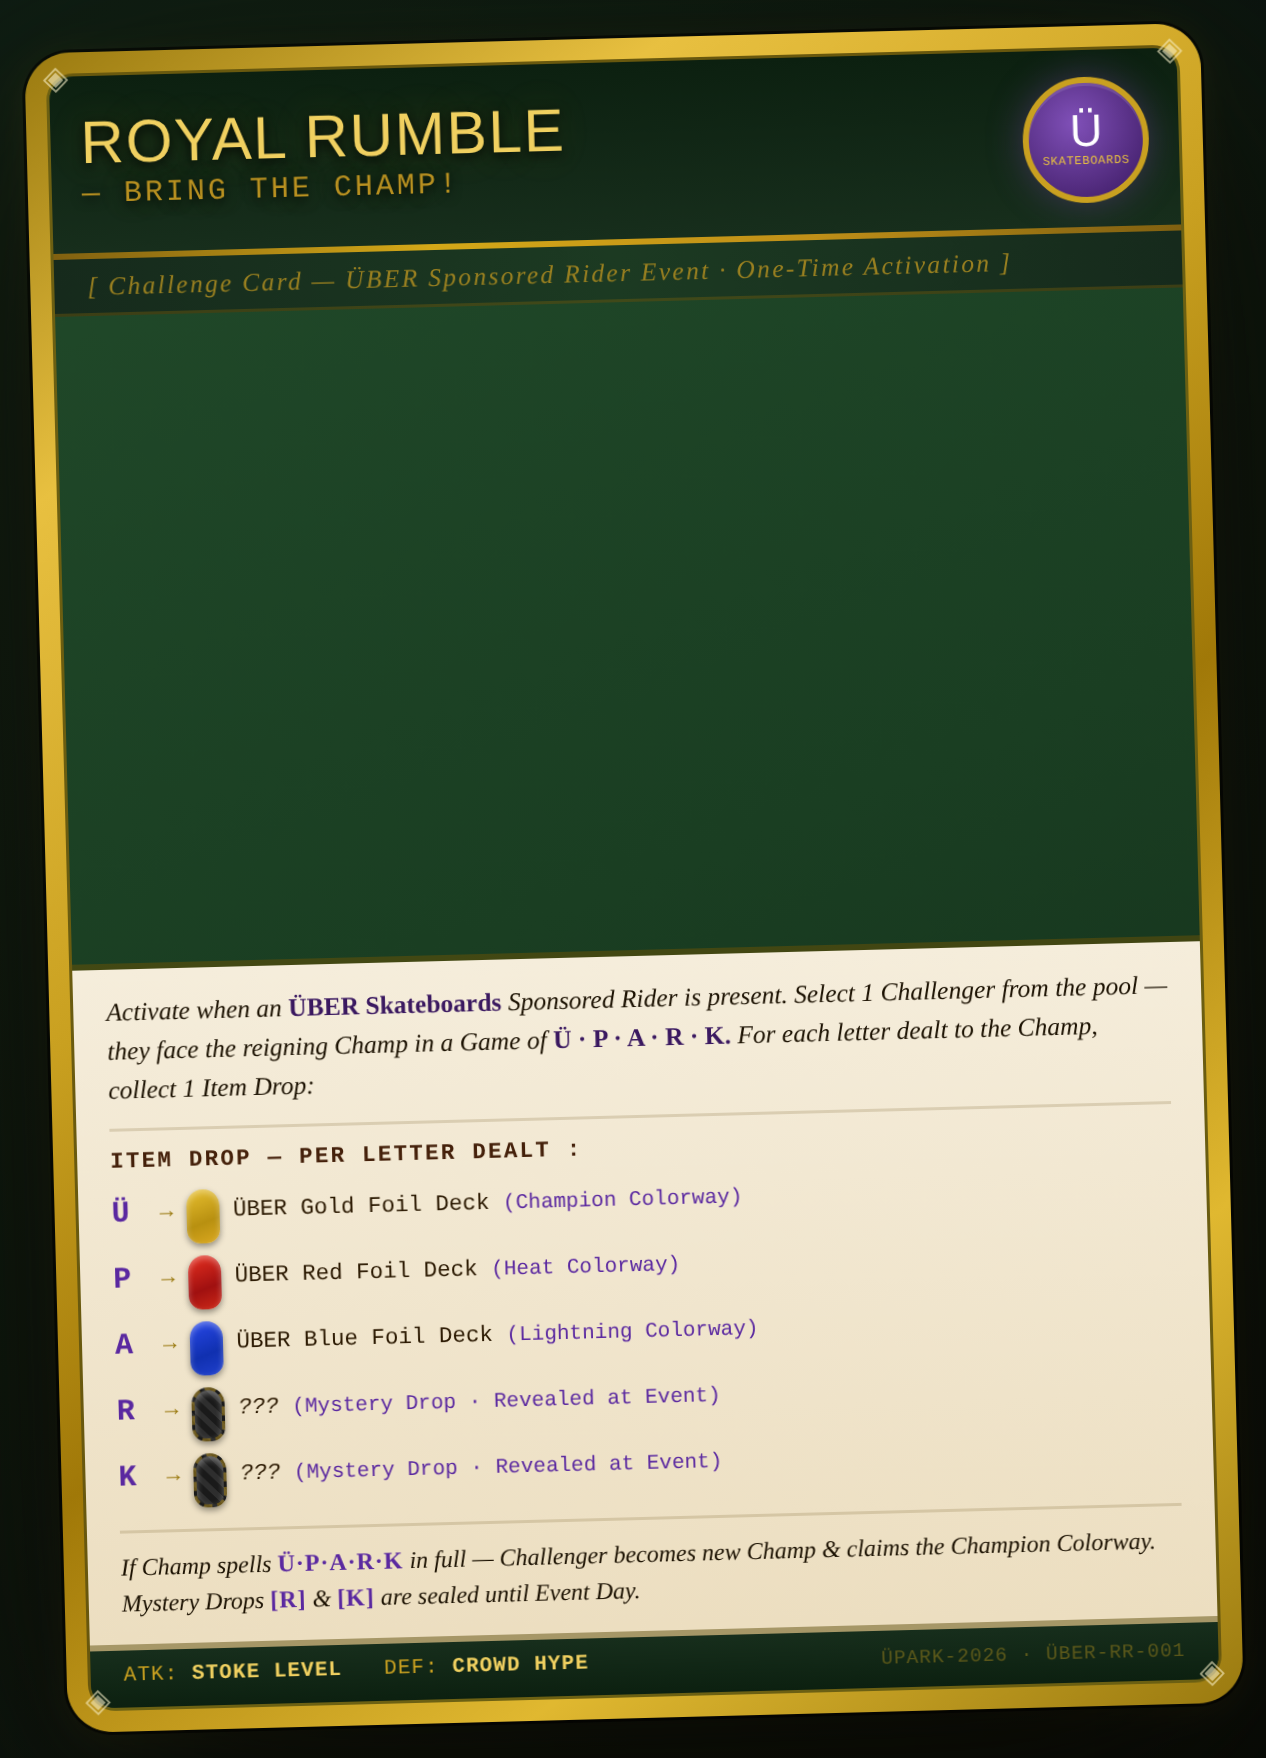
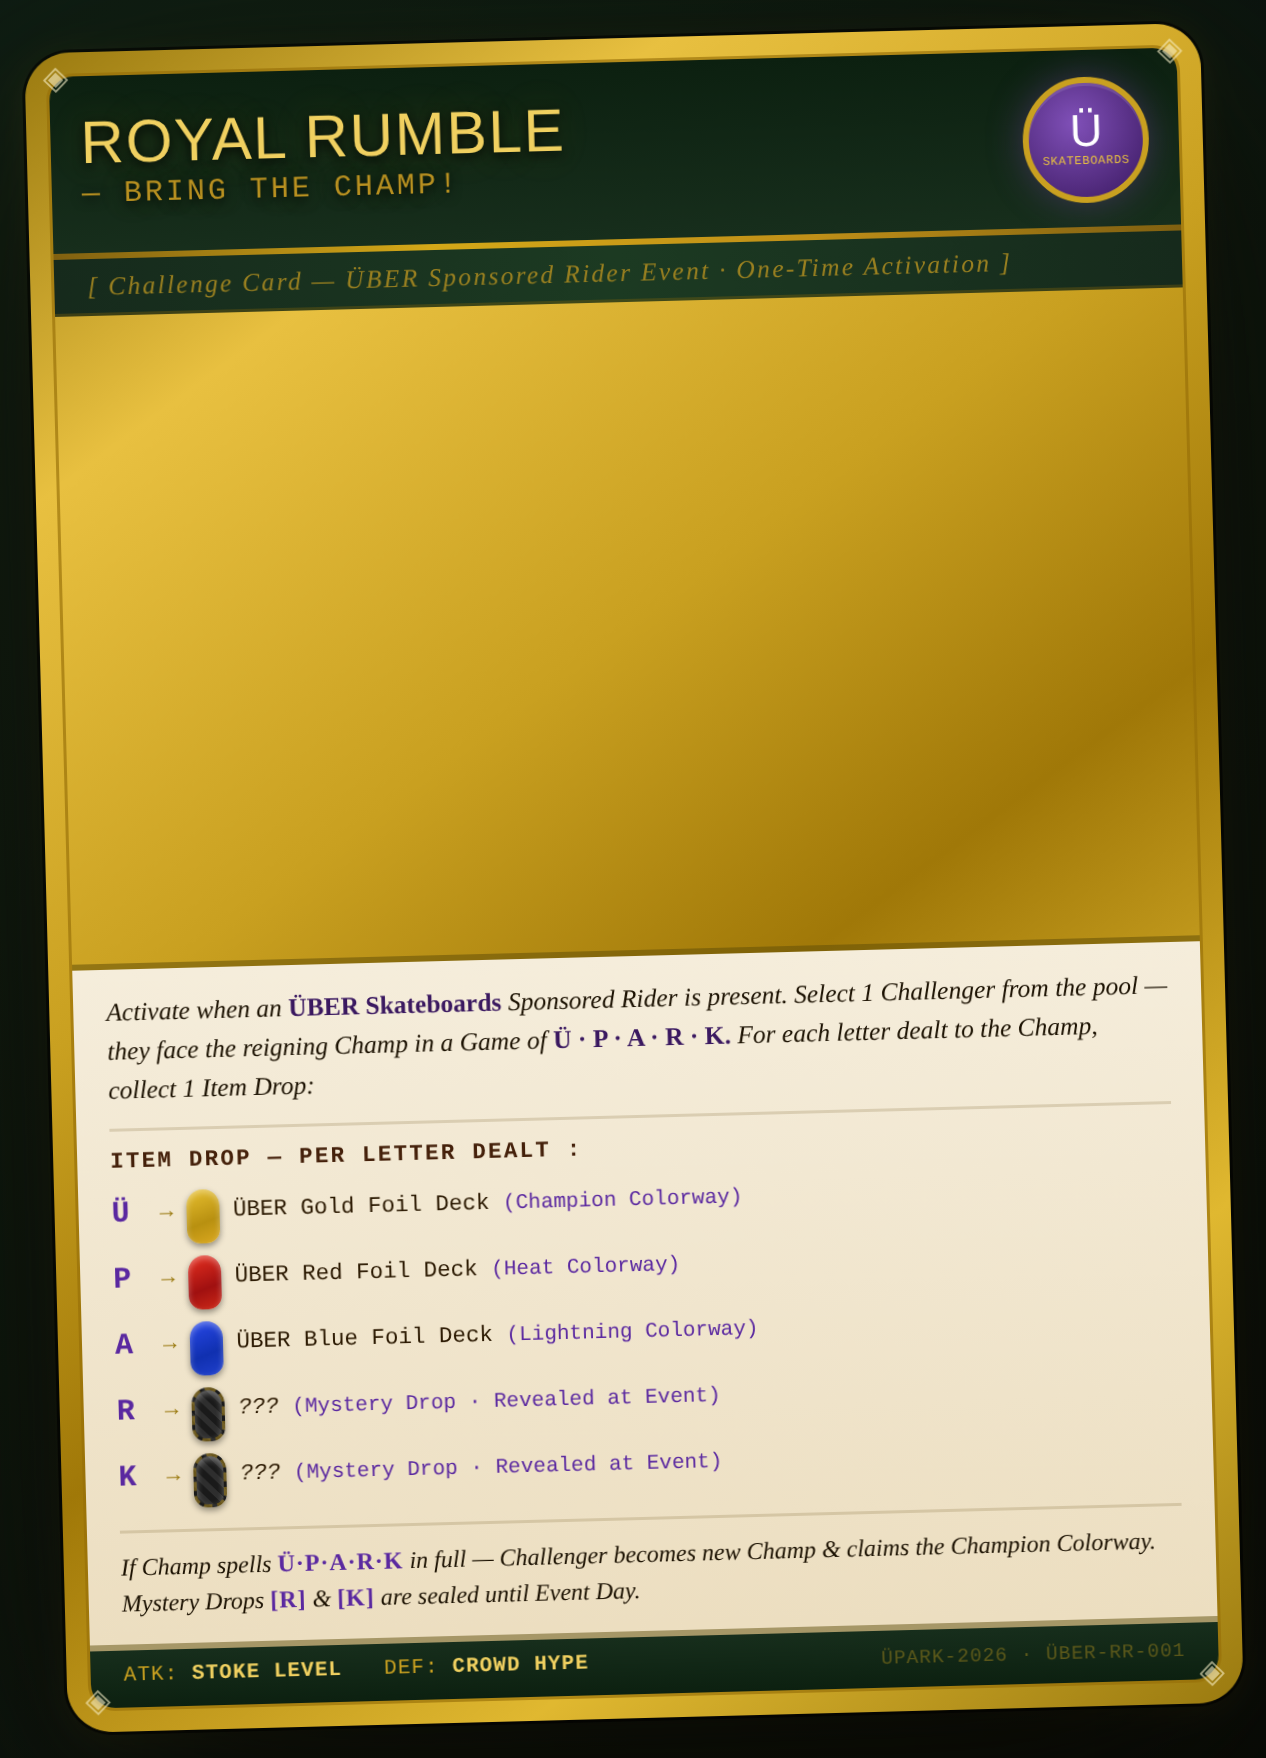
Remove card-level green background so art zone spacer is truly transparent
Each section (title-bar, type-line, text-box, footer) has its own
explicit background — removing card-level gradient punches a clean
alpha hole through the art zone.

diff --git a/cards/royal-rumble.html b/cards/royal-rumble.html
@@ -70,7 +70,7 @@ body {
   overflow: hidden;
   display: flex;
   flex-direction: column;
-  background: linear-gradient(160deg, #214a2a 0%, #1a3e22 50%, #122a18 100%);
+  background: transparent;
   box-shadow: inset 0 1px 0 rgba(255,255,255,0.05);
 }
 
